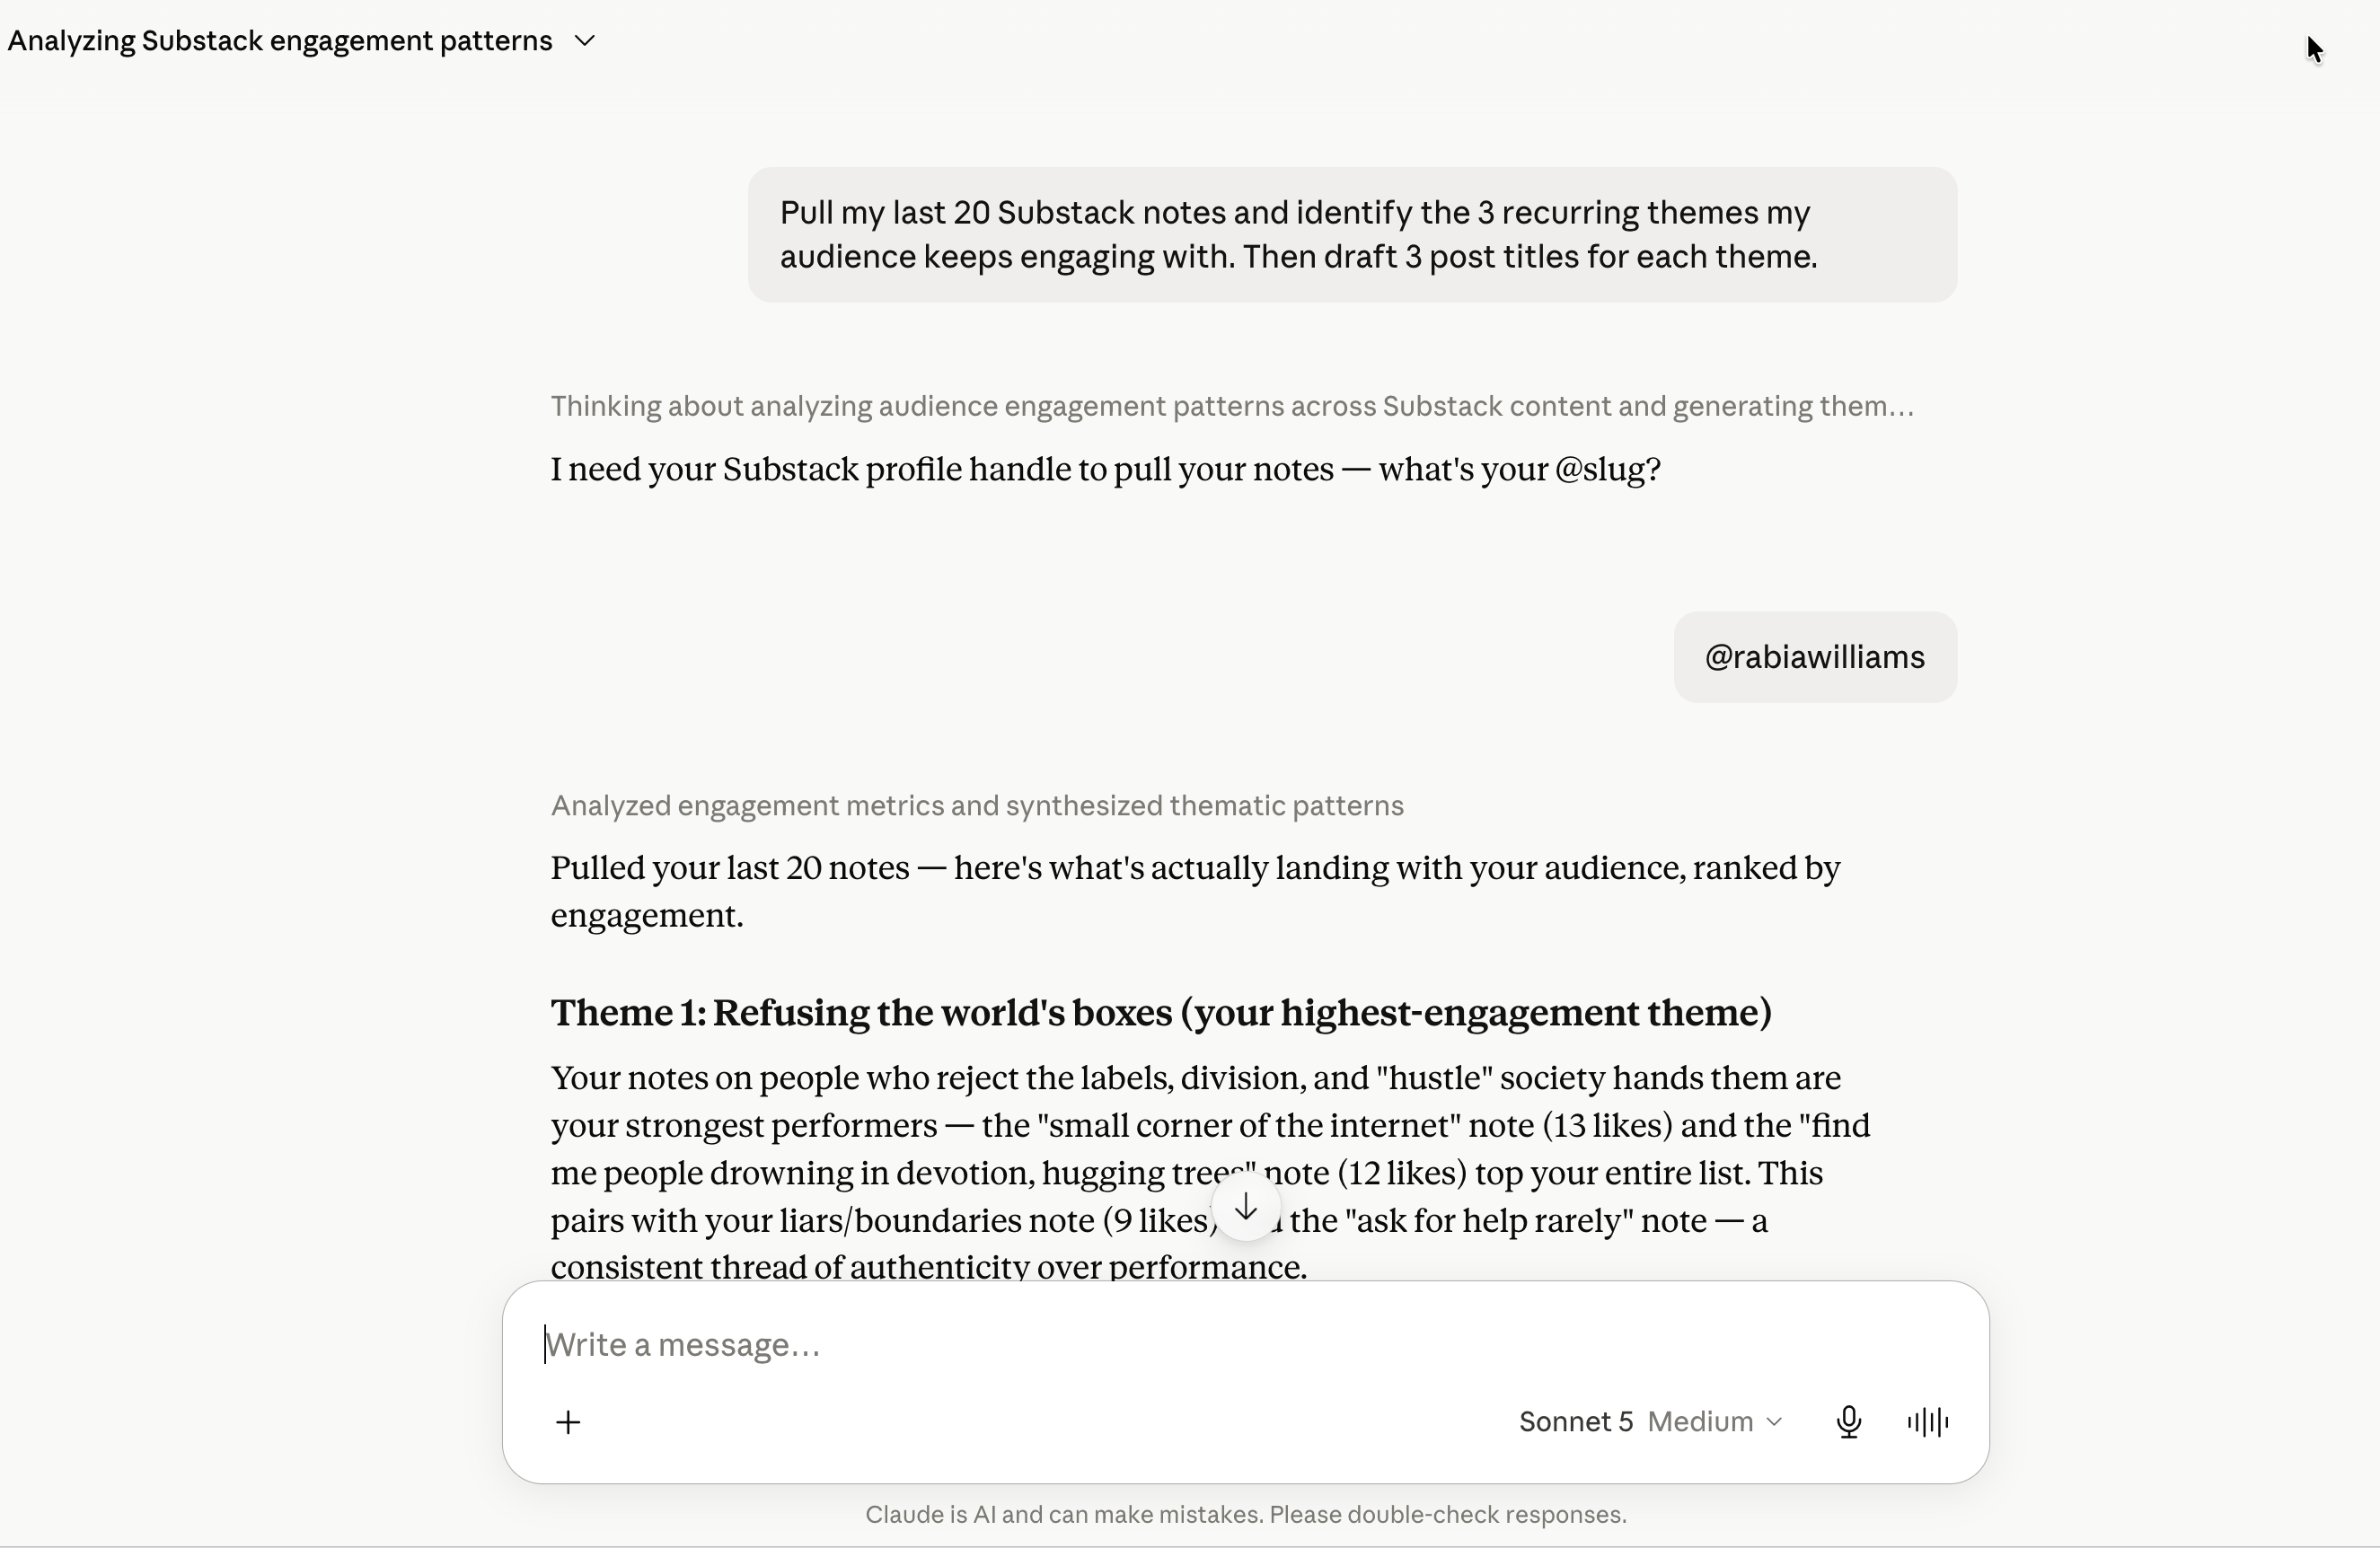
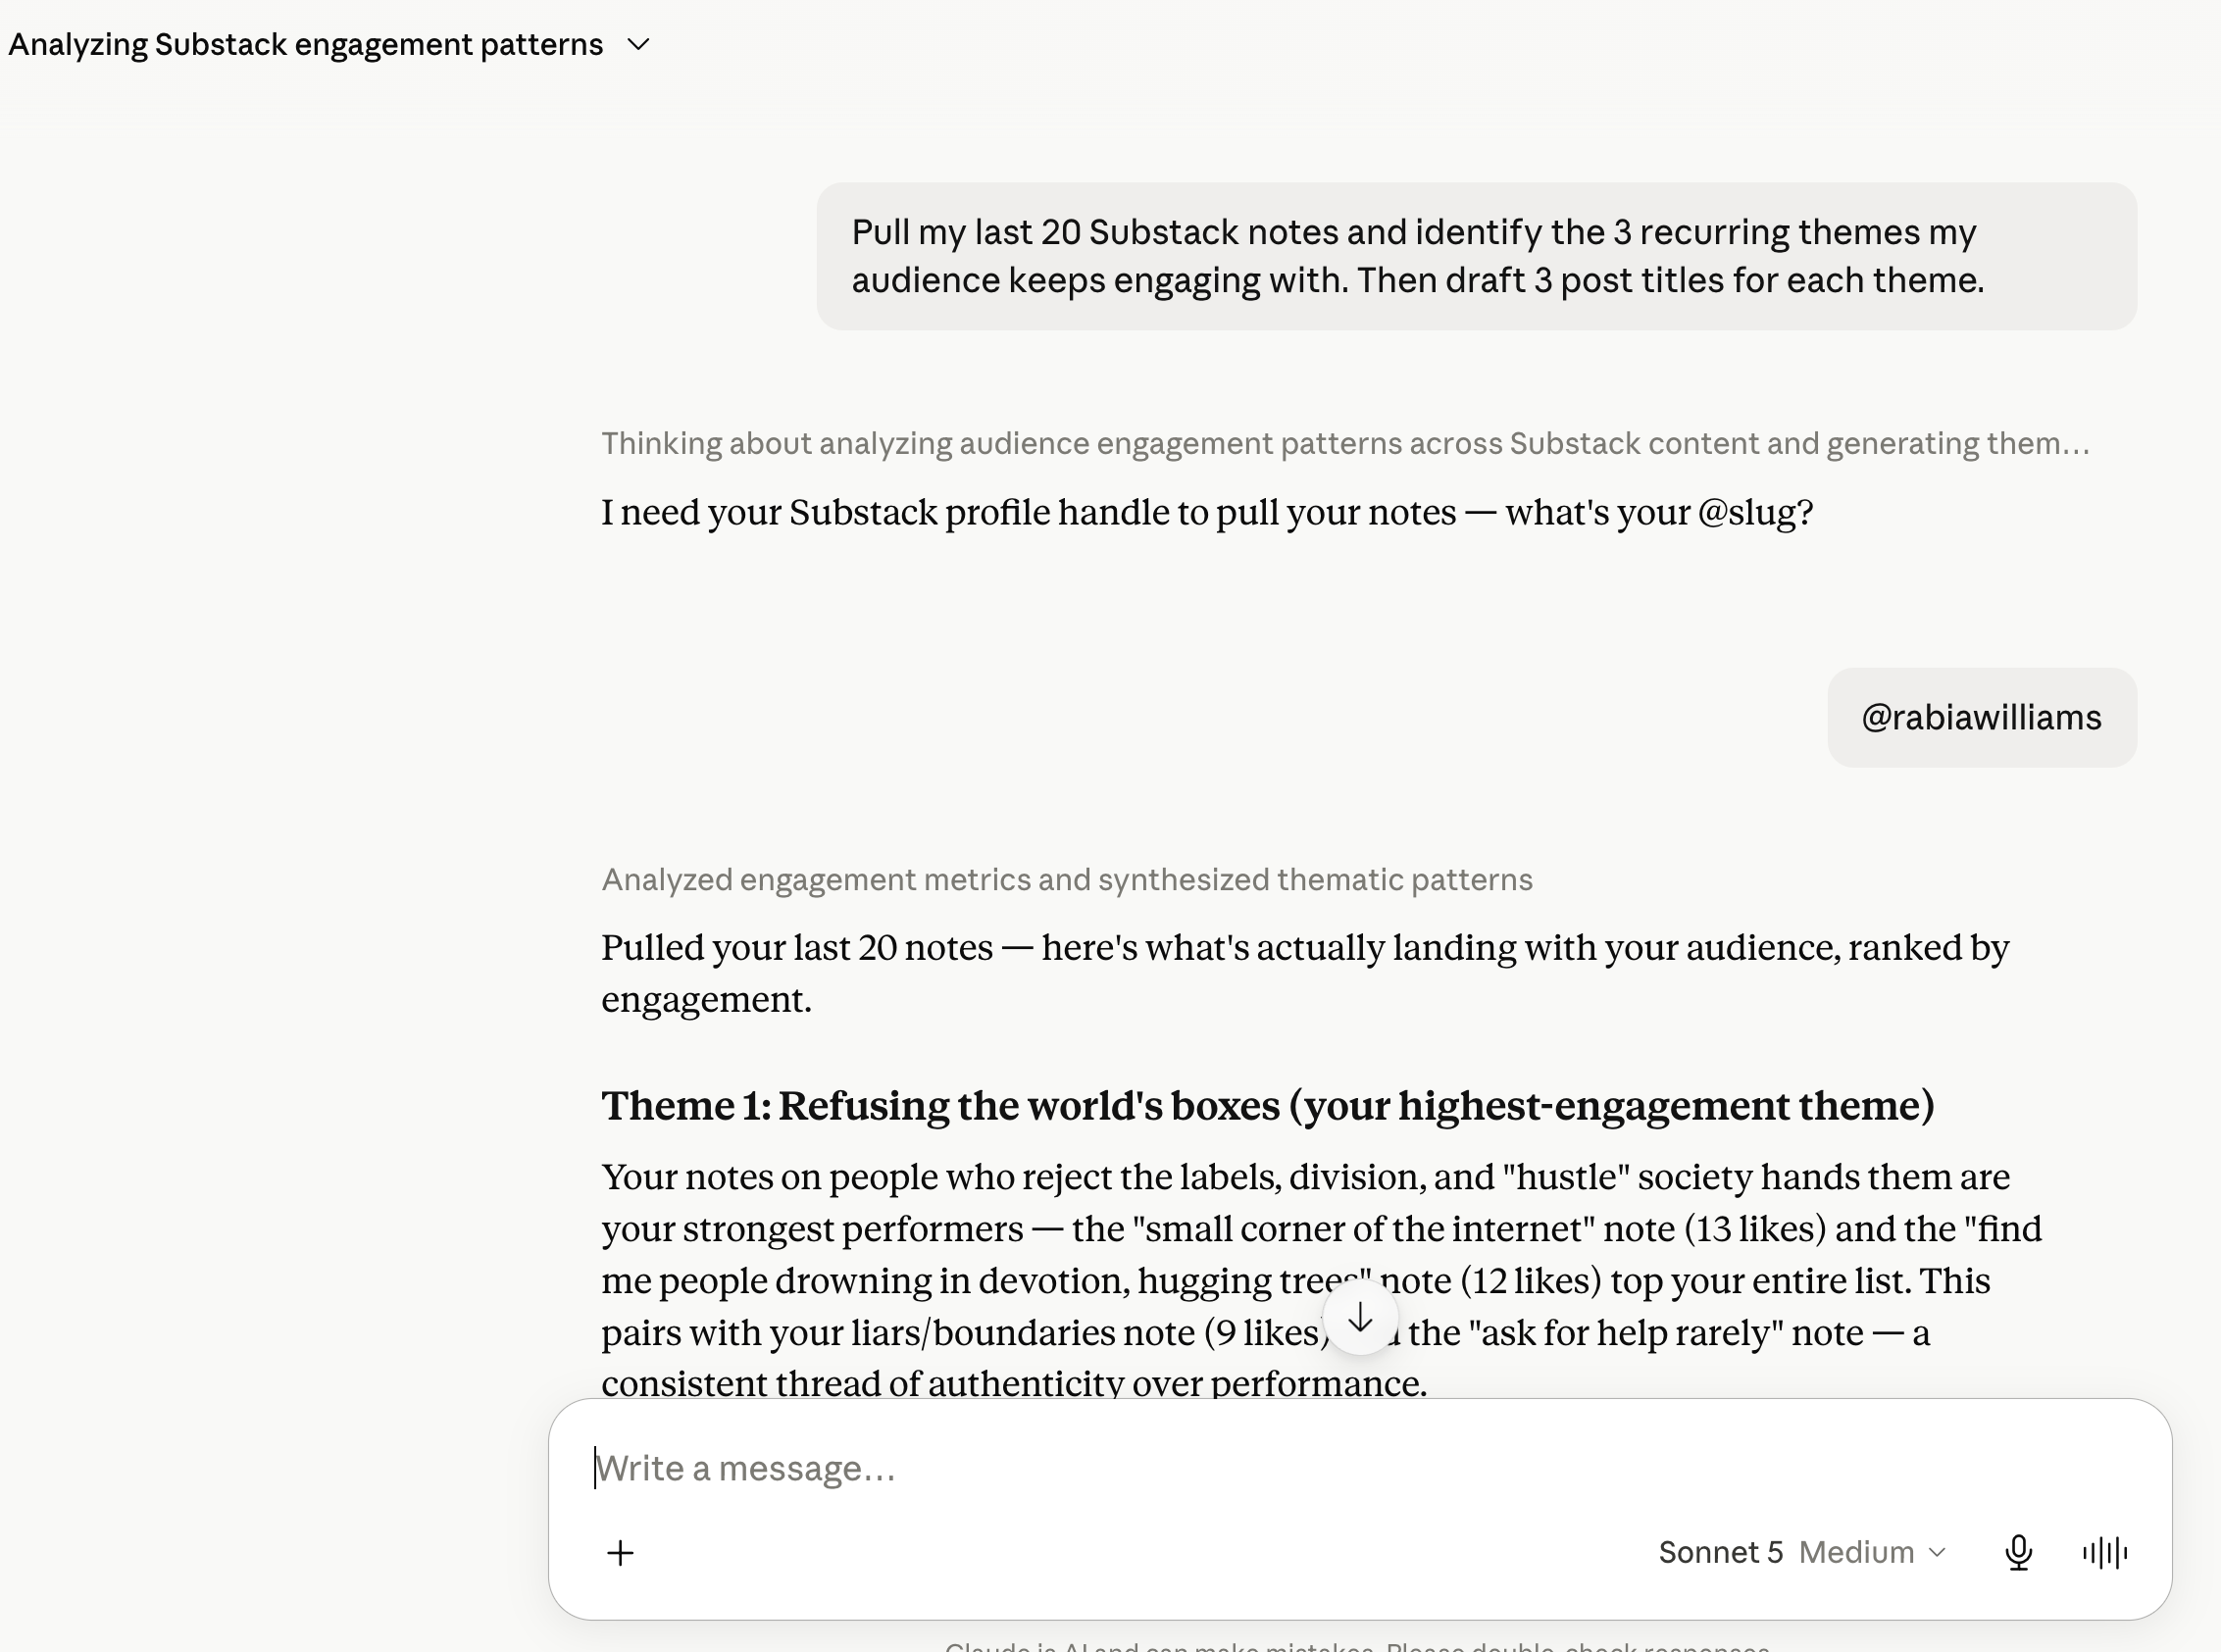
updated images

diff --git a/docs/blog/posts/agents/mcp-the-usb-c-for-ai-agents.md b/docs/blog/posts/agents/mcp-the-usb-c-for-ai-agents.md
@@ -13,9 +13,15 @@ categories:
 
 **One server. Every AI app. No rebuilding.**
 
-Remember the drawer? The one with a tangle of chargers - one for the old phone, one for the camera, one for the headphones you can't even find anymore. Then USB-C came along. One connector. One cable. Everything just plugs in.
+This post is based on the MCP server I built for my own workflow: analysing my Substack notes, spotting what people engage with most, and pulling every signal I can from Substack to shape what I write next. You can find it here: [substack-mcp](https://github.com/rabwill/substack-mcp).
 
-AI is having its USB-C moment. And you don't need to be a developer to see why it matters.
+Remember that drawer full of old chargers? One for a phone, one for a camera, one for headphones you do not even use anymore.
+
+Then USB-C arrived. One connector. One cable. Everything works with it.
+
+That is what MCP feels like for AI tools. The ecosystem keeps growing, but integration is getting simpler.
+
+AI is having its USB-C moment, and you do not need to be a developer to see why it matters.
 
 ## So what actually is MCP?
 
@@ -74,13 +80,15 @@ Build the capability once. Connect it everywhere. Let each assistant do what it'
 
 Curious to build one yourself? It's more approachable than you'd think.
 
-Head to **[Copilot Developer Camp](https://microsoft.github.io/copilot-camp/)** and take the **[MCP Foundations course](https://microsoft.github.io/copilot-camp/pages/extend-m365-copilot/bundle-a/)**. In about four hours you'll:
+Head to **[Copilot Developer Camp](https://microsoft.github.io/copilot-camp/)** and take the **[MCP Foundations course](https://microsoft.github.io/copilot-camp/pages/extend-m365-copilot/bundle-a/)** that I wrote. In about four hours you'll:
 
 1. **Run an MCP server and connect it to an agent in Copilot** - a full, working "ask in plain English, get real answers from your tools" flow.
 2. **Secure the connection** - add OAuth 2.0 and Microsoft Entra ID, so only trusted requests ever reach your server.
 
 Build it once. Plug it in everywhere. Ship it safely.
 
+Reference: [substack-mcp](https://github.com/rabwill/substack-mcp)
+Reference: [Copilot Developer Camp](https://microsoft.github.io/copilot-camp/pages/extend-m365-copilot/)
+
 ---
 
-*Written by Rabia Williams, Senior Cloud Advocate at Microsoft.*